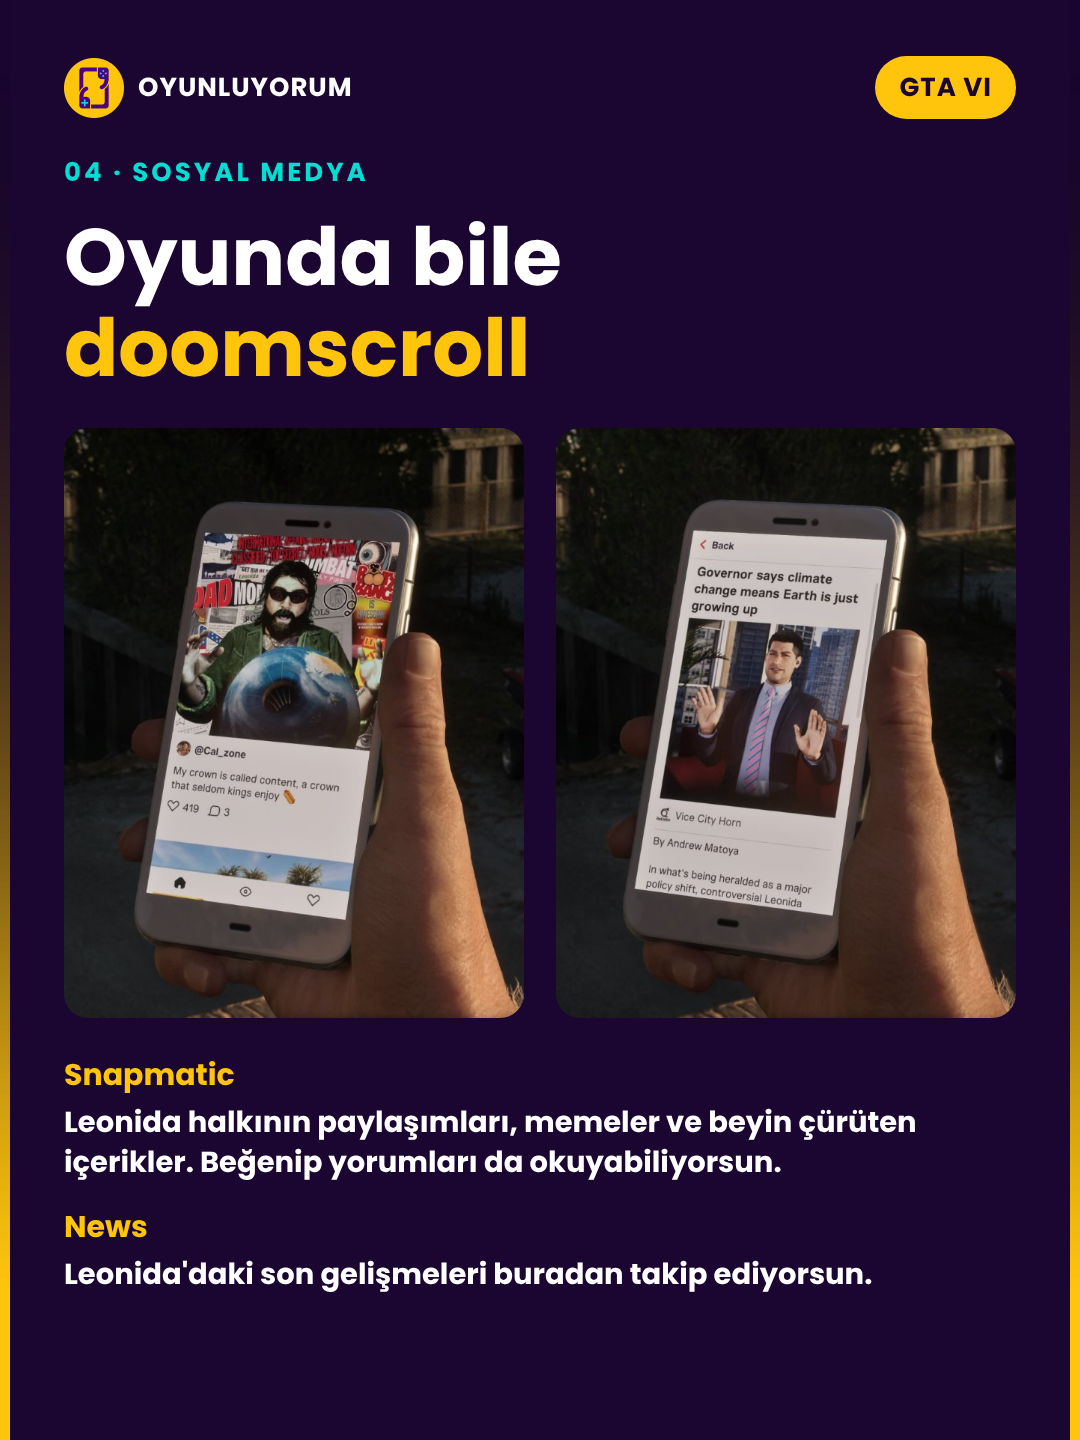
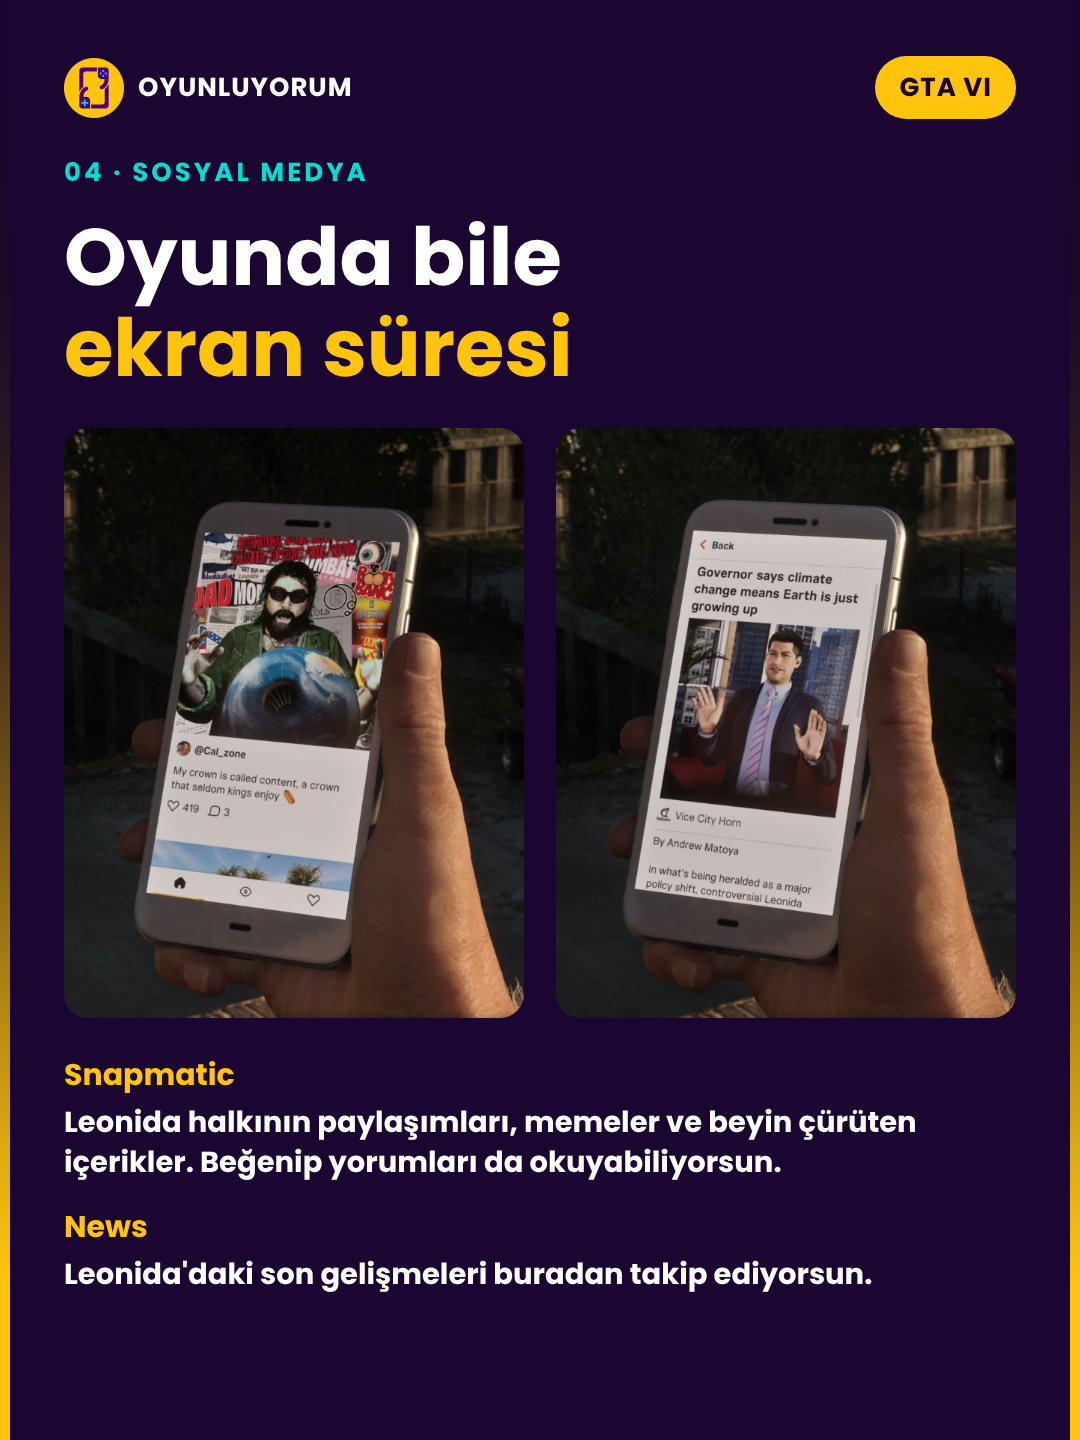
Telefon uygulamaları: doomscroll yerine ekran süresi
Claude-Session: https://claude.ai/code/session_01Cfy9VgEXWVL5ta7MT2PpLs

Changed region(s): [[0.275, 0.2188, 0.55, 0.2812], [0.0611, 0.2188, 0.2444, 0.2812]]

diff --git a/posts/2026-11-19-gta6-telefon-uygulamalari/aciklama.md b/posts/2026-11-19-gta6-telefon-uygulamalari/aciklama.md
@@ -6,7 +6,7 @@ Kaynak: https://www.gamespot.com/articles/all-gta-6-smartphone-apps-and-what-the
 
 ## Açıklama
 
-GTA 6'da telefon sadece süs değil 📱 Araba çalmadan önce tarıyorsun, aracını kuryeyle ayağına getirtiyorsun, görevler mesajla geliyor, boş vakitte de Snapmatic'te doomscroll 😅
+GTA 6'da telefon sadece süs değil 📱 Araba çalmadan önce tarıyorsun, aracını kuryeyle ayağına getirtiyorsun, görevler mesajla geliyor, boş vakitte de Snapmatic'te ekran süreni dolduruyorsun 😅
 
 10 uygulamanın hepsini tek tek anlattık 👇
 
